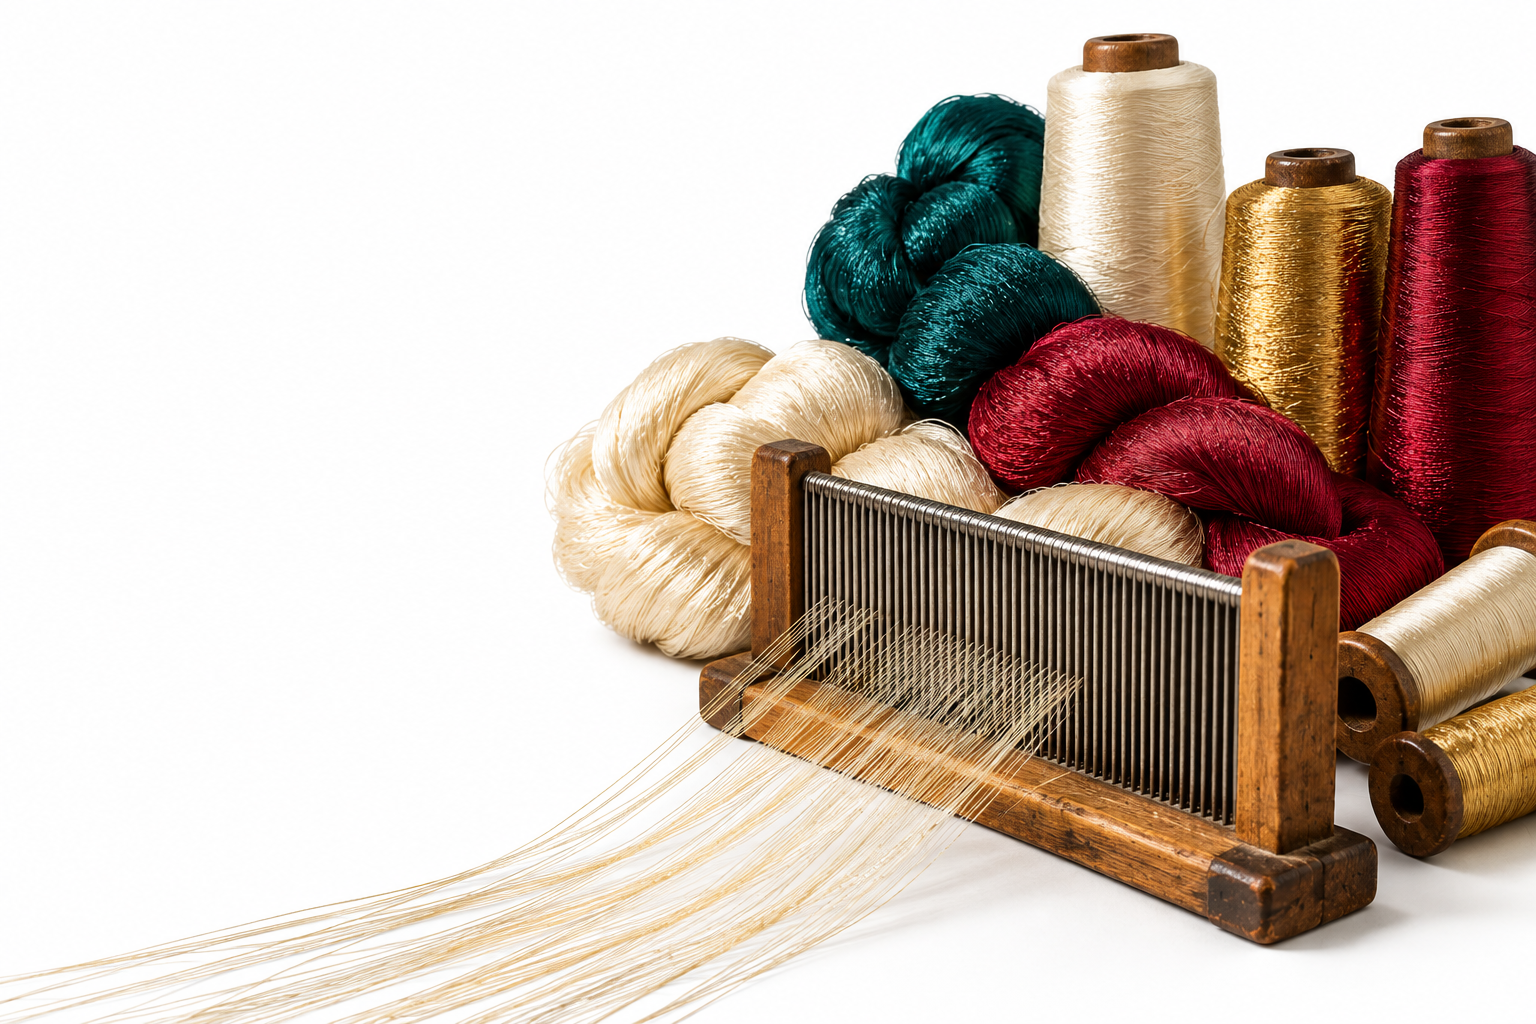
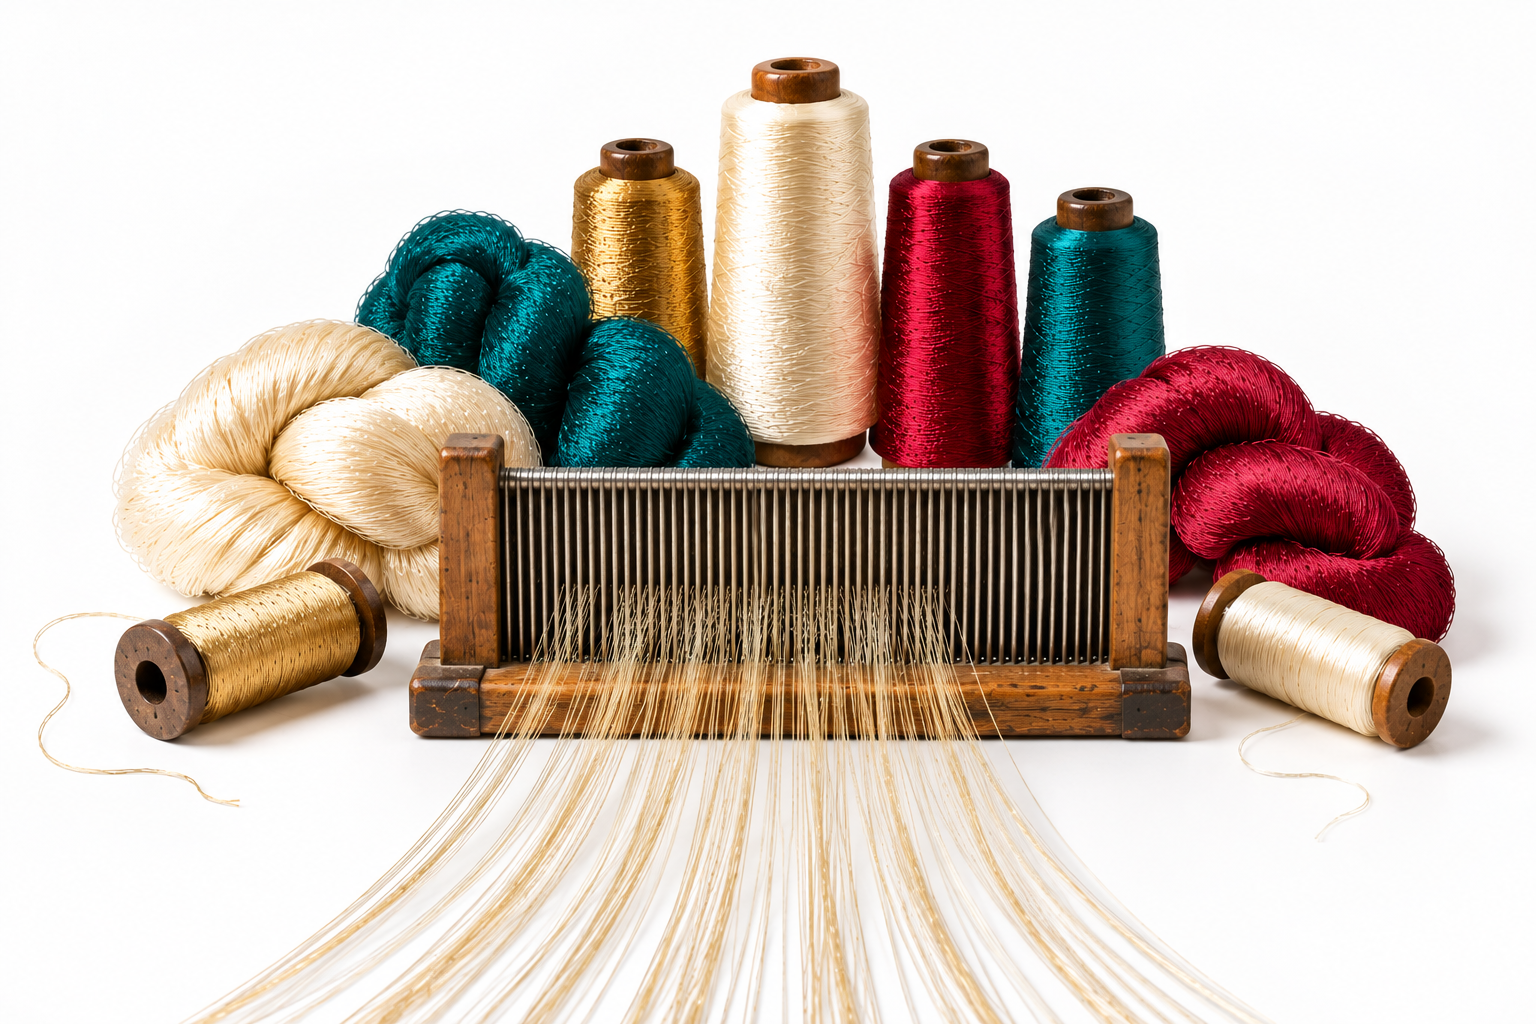
Add hero image slider and update material section photo
Hero now rotates through three real photos every 3 seconds with a
crossfade (respects prefers-reduced-motion by holding on the first
slide). Updated "The Material Is the Product" section to use the newly
supplied replacement photo.

diff --git a/src/app/(marketing)/page.tsx b/src/app/(marketing)/page.tsx
@@ -4,6 +4,7 @@ import { Button } from "@/components/ui/button";
 import { SectionLabel } from "@/components/ui/section-label";
 import { MediaPlaceholder } from "@/components/ui/media-placeholder";
 import { ArchiveGrid } from "@/components/marketing/archive-grid";
+import { HeroSlider } from "@/components/marketing/hero-slider";
 import { materials, palette, borders } from "@/components/studio/studio-data";
 import { getMedia, MATERIAL_MEDIA_ID } from "@/lib/media-registry";
 
@@ -56,15 +57,14 @@ export default function Home() {
       {/* 01 — Cinematic opening */}
       <section className="relative flex min-h-[92vh] flex-col justify-end overflow-hidden bg-charcoal text-ivory">
         {(() => {
-          const hero = getMedia("home-hero-loom");
-          return hero?.src ? (
-            <Image
-              src={hero.src}
-              alt={hero.alt}
-              fill
-              priority
-              sizes="100vw"
-              className="object-cover"
+          const heroSlides = [
+            getMedia("home-hero-loom"),
+            getMedia("home-hero-loom-2"),
+            getMedia("home-hero-loom-3"),
+          ].filter((m): m is NonNullable<typeof m> => Boolean(m?.src));
+          return heroSlides.length > 0 ? (
+            <HeroSlider
+              slides={heroSlides.map((m) => ({ src: m.src!, alt: m.alt }))}
             />
           ) : (
             <MediaPlaceholder

diff --git a/src/components/marketing/hero-slider.tsx b/src/components/marketing/hero-slider.tsx
@@ -1,0 +1,49 @@
+"use client";
+
+import { useEffect, useState } from "react";
+import Image from "next/image";
+
+interface HeroSlide {
+  src: string;
+  alt: string;
+}
+
+const SLIDE_INTERVAL_MS = 3000;
+
+/**
+ * Homepage hero image rotator. Plain crossfade between real photos — no
+ * external carousel library, respects prefers-reduced-motion by disabling
+ * the automatic advance (all slides remain reachable, just not auto-timed).
+ */
+export function HeroSlider({ slides }: { slides: HeroSlide[] }) {
+  const [index, setIndex] = useState(0);
+
+  useEffect(() => {
+    if (slides.length <= 1) return;
+    if (window.matchMedia("(prefers-reduced-motion: reduce)").matches) return;
+
+    const timer = setInterval(() => {
+      setIndex((i) => (i + 1) % slides.length);
+    }, SLIDE_INTERVAL_MS);
+
+    return () => clearInterval(timer);
+  }, [slides.length]);
+
+  return (
+    <div className="absolute inset-0">
+      {slides.map((slide, i) => (
+        <Image
+          key={slide.src}
+          src={slide.src}
+          alt={slide.alt}
+          fill
+          priority={i === 0}
+          sizes="100vw"
+          className={`object-cover transition-opacity duration-1000 ease-in-out ${
+            i === index ? "opacity-100" : "opacity-0"
+          }`}
+        />
+      ))}
+    </div>
+  );
+}

diff --git a/src/lib/media-registry.ts b/src/lib/media-registry.ts
@@ -73,6 +73,30 @@ export const mediaRegistry: MediaAsset[] = [
     height: 941,
   },
   {
+    id: "home-hero-loom-2",
+    type: "image",
+    category: "videos",
+    status: "owned",
+    title: "Homepage Hero — 2",
+    src: "/assets/homepage/hero-loom-2.png",
+    alt: "Silk textile detail",
+    usage: "hero",
+    width: 1672,
+    height: 941,
+  },
+  {
+    id: "home-hero-loom-3",
+    type: "image",
+    category: "videos",
+    status: "owned",
+    title: "Homepage Hero — 3",
+    src: "/assets/homepage/hero-loom-3.png",
+    alt: "Silk textile detail",
+    usage: "hero",
+    width: 1672,
+    height: 941,
+  },
+  {
     id: "silk-macro-kanchipuram",
     type: "image",
     category: "silk",
